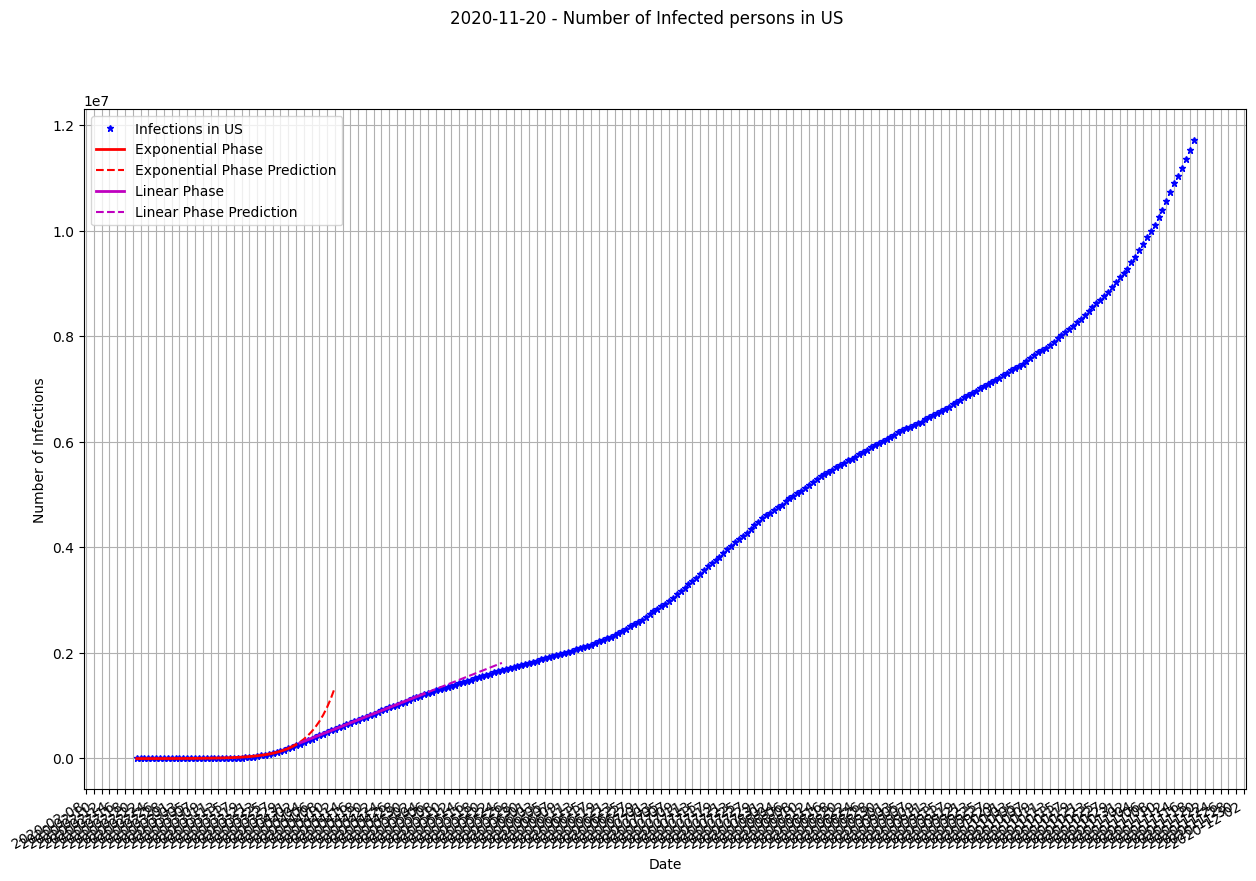
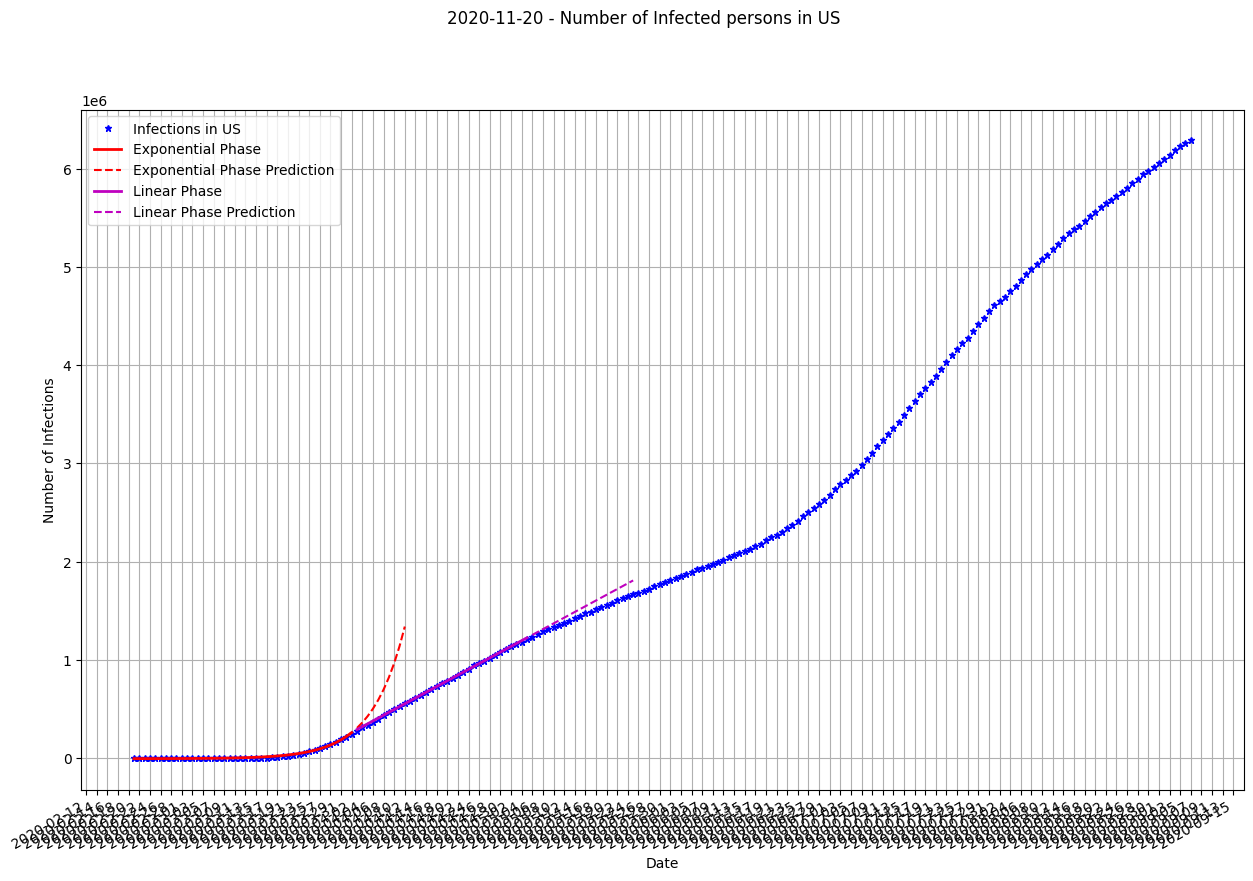
Deactivate live computation and update README.md

Changed region(s): [[0.0, 0.0919, 0.996, 1.0], [0.3424, 0.0, 0.6848, 0.0306]]

diff --git a/main.py b/main.py
@@ -15,11 +15,13 @@ CSV_URL = 'https://raw.githubusercontent.com/CSSEGISandData/COVID-19/master/' \
 COUNTRIES = [
     {"country": "Germany", "min_infections": 15,
      "start_exponential_phase": 0, "end_exponential_phase": 44,
-     "start_linear_phase": 44, "end_linear_phase": 60},
+     "start_linear_phase": 44, "end_linear_phase": 60,
+     "end_after_n_days": 200},
 
     {"country": "US", "min_infections": 15,
      "start_exponential_phase": 0, "end_exponential_phase": 42,
-     "start_linear_phase": 42, "end_linear_phase": 75},
+     "start_linear_phase": 42, "end_linear_phase": 75,
+     "end_after_n_days": 200},
 ]
 
 
@@ -43,7 +45,8 @@ def get_csv():
 
 def plot_model(df, country, min_infections,
                start_exponential_phase, end_exponential_phase,
-               start_linear_phase, end_linear_phase):
+               start_linear_phase, end_linear_phase,
+               end_after_n_days):
 
     # filter just one country
     df = df[df["Country/Region"] == country]
@@ -53,6 +56,9 @@ def plot_model(df, country, min_infections,
 
     # start with first infections
     df = df[df.values > min_infections]
+
+    # apply maximal number of days to consider
+    df = df[:end_after_n_days]
 
     # parse to datetime
     df.index = pd.to_datetime(df.index, format='%m/%d/%y')
@@ -106,7 +112,6 @@ def plot_model(df, country, min_infections,
         periods=duration_linear_phase + prediction_in_days,
         closed="left"
     )
-
 
     fig, ax = plt.subplots(figsize=(15, 10))
     # plot real data
@@ -171,4 +176,6 @@ if __name__ == '__main__':
                    country_info["start_exponential_phase"],
                    country_info["end_exponential_phase"],
                    country_info["start_linear_phase"],
-                   country_info["end_linear_phase"])
+                   country_info["end_linear_phase"],
+                   country_info["end_after_n_days"]
+                   )

diff --git a/README.md b/README.md
@@ -1,9 +1,9 @@
-# Live Covid-19 extrapolation of infected persons in Germany
+# ~~Live~~ Covid-19 extrapolation of infected persons in Germany and US
 
-### Current situation - Germany
+### Situation for the first 200 days - Germany
 ![](plots/model_Germany.png)
 
-### Current situation - US
+### Situation for the first 200 days - US
 ![](plots/model_US.png)
 
 ## Data source
